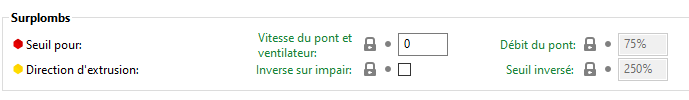
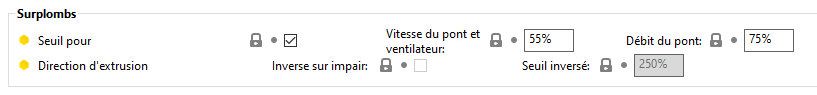
s_overhangs

diff --git a/src/print_settings/print_settings.md b/src/print_settings/print_settings.md
@@ -223,7 +223,11 @@ Modifiable si l'option [thin_perimeters](thin_perimeters.md) est active.
 ### Surplombs
 
 ![Image : Paramètres de Surplombs](./images/012.png)
+#### *[Seuil](../variable/s_overhangs.md)*
 
+Composant simple pour activer/désactiver la détection des surplombs (en utilisant 55% et 75% pour les deux seuils).
+
+Utilisez le mode expert pour obtenir des contrôles plus détaillés.
 
 #### *[Seuil pour Vitesse du pont et ventilateur](../variable/overhangs_width_speed.md)*
 
